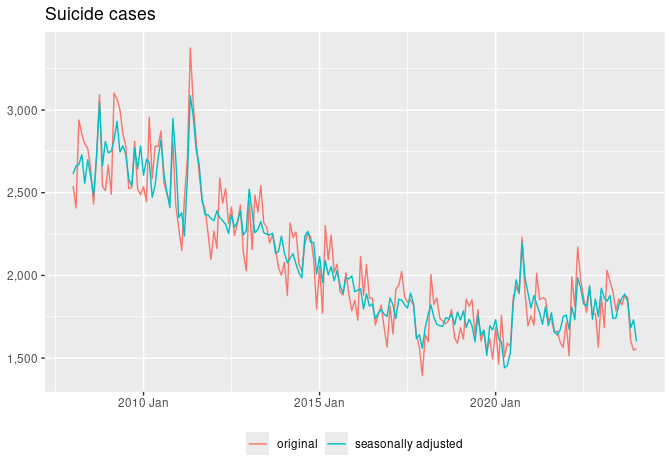
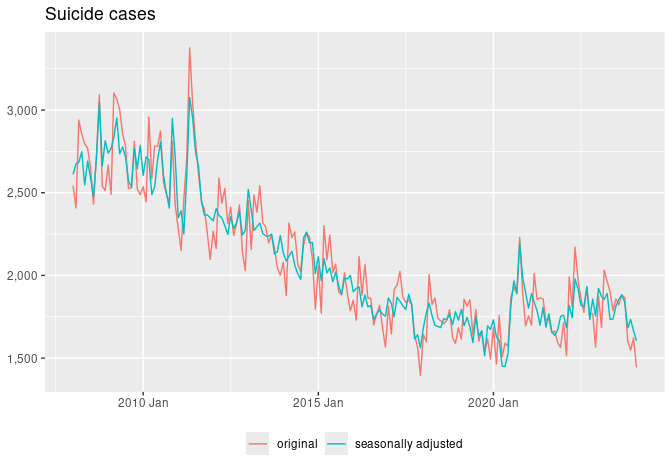
update February 2024 cases and unemployment

Changed region(s): [[0.0938, 0.1489, 0.9688, 0.8043], [0.6875, 0.834, 0.7812, 0.8638], [0.4375, 0.834, 0.5312, 0.8638]]

diff --git a/README.md b/README.md
@@ -10,7 +10,7 @@ Mitsuo Shiota
 - [Suicide cases are bouncing back, but not as fast as the program
   suggests](#suicide-cases-are-bouncing-back-but-not-as-fast-as-the-program-suggests)
 
-Updated: 2024-03-02
+Updated: 2024-03-29
 
 ## Motivation
 
